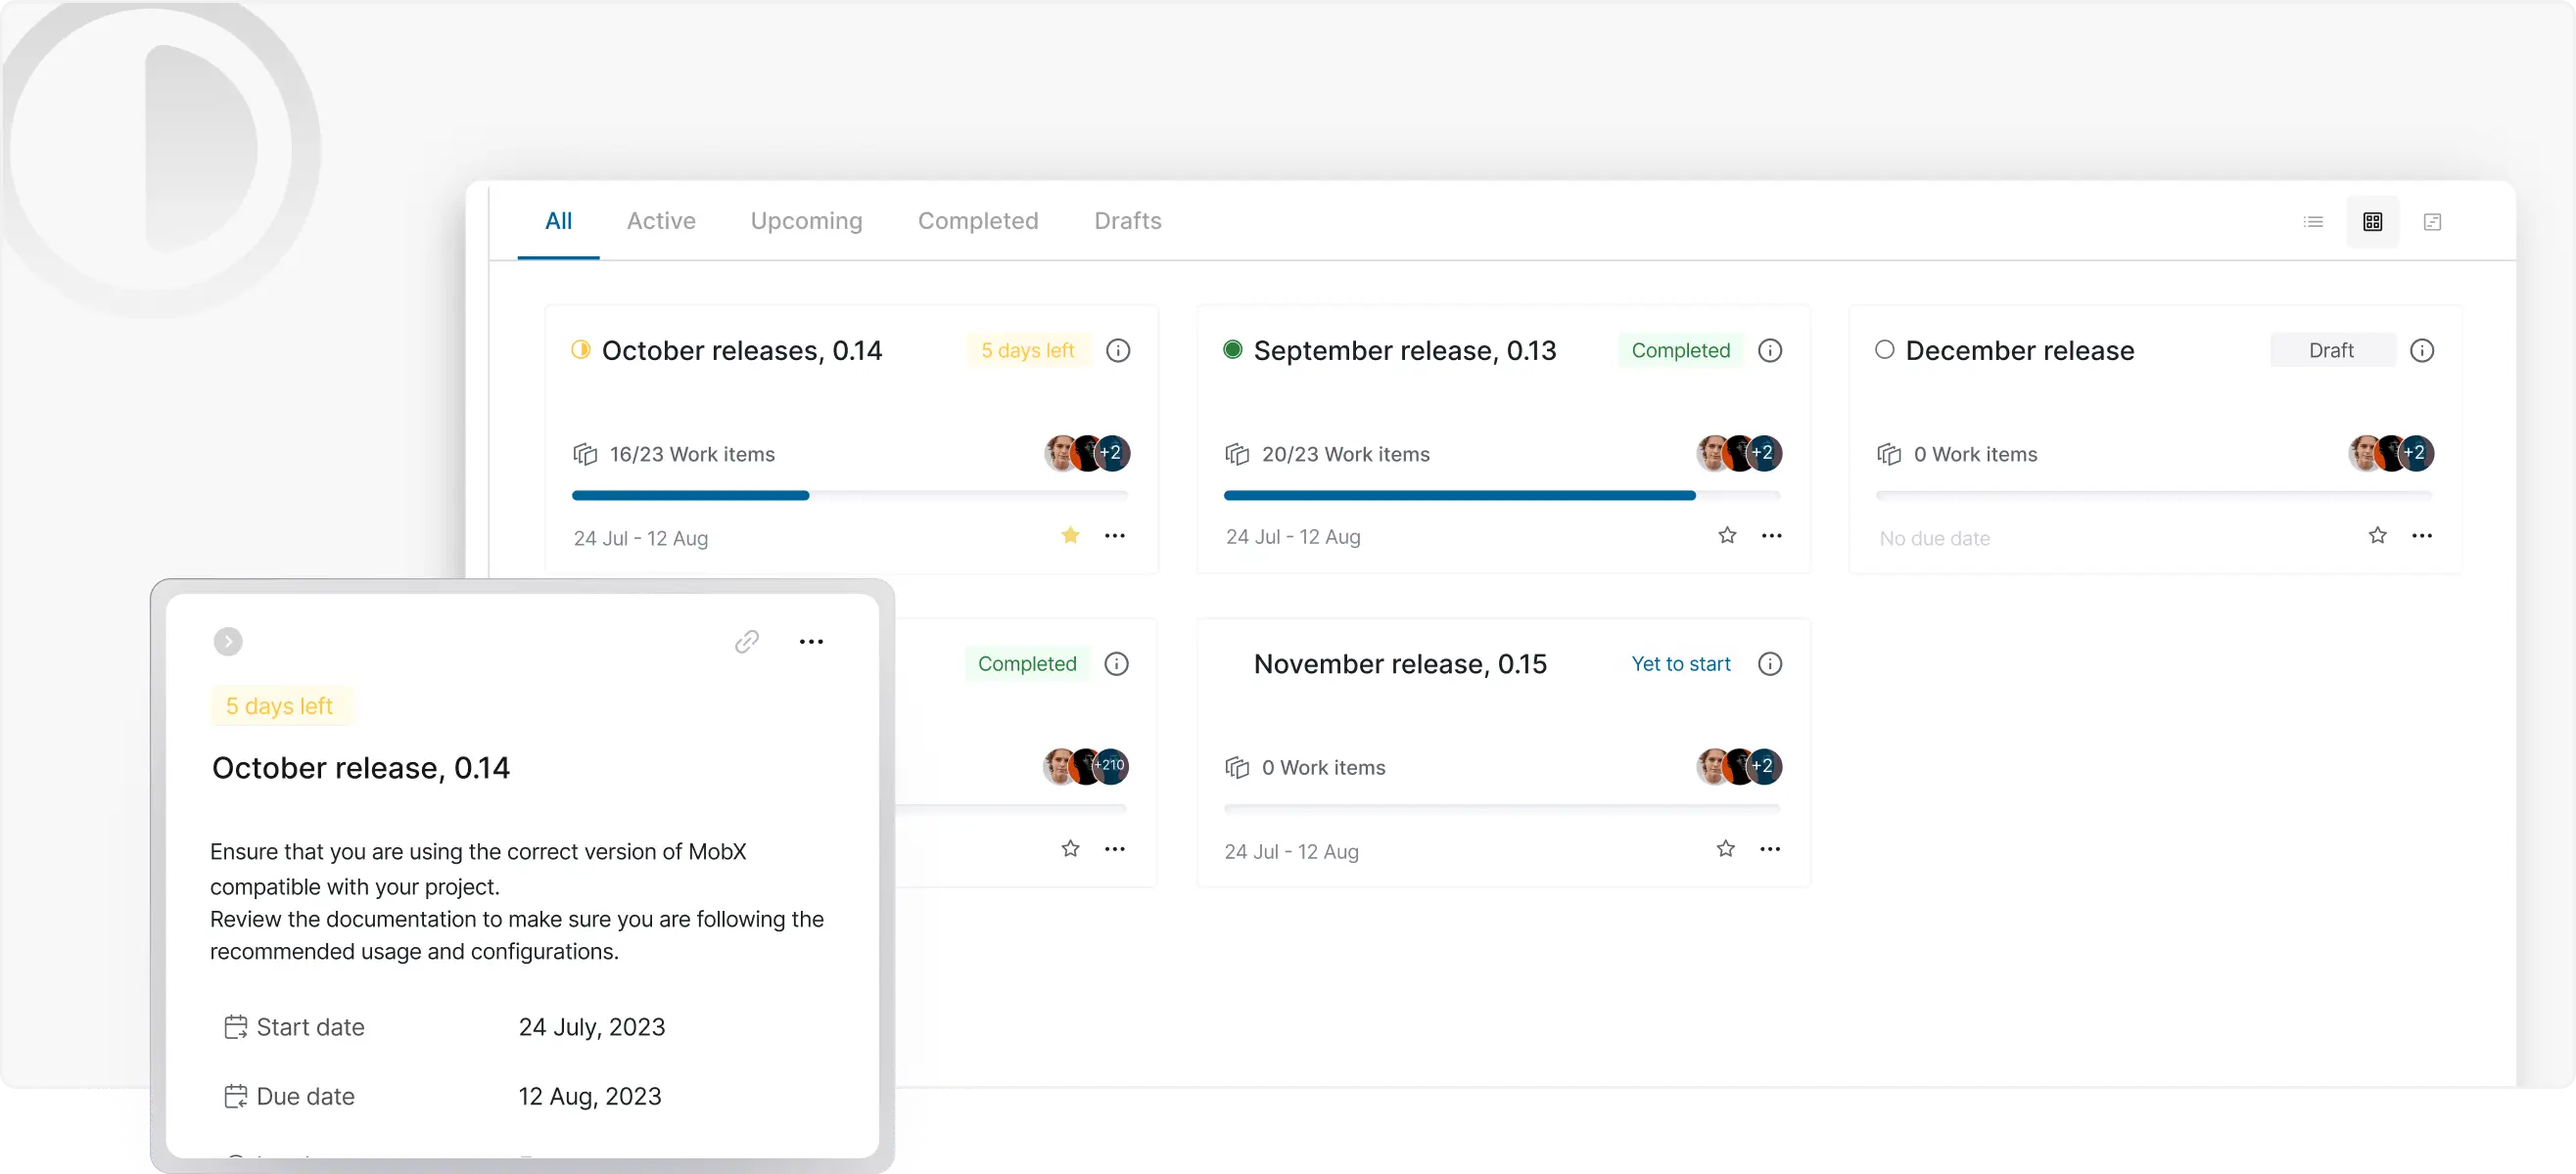
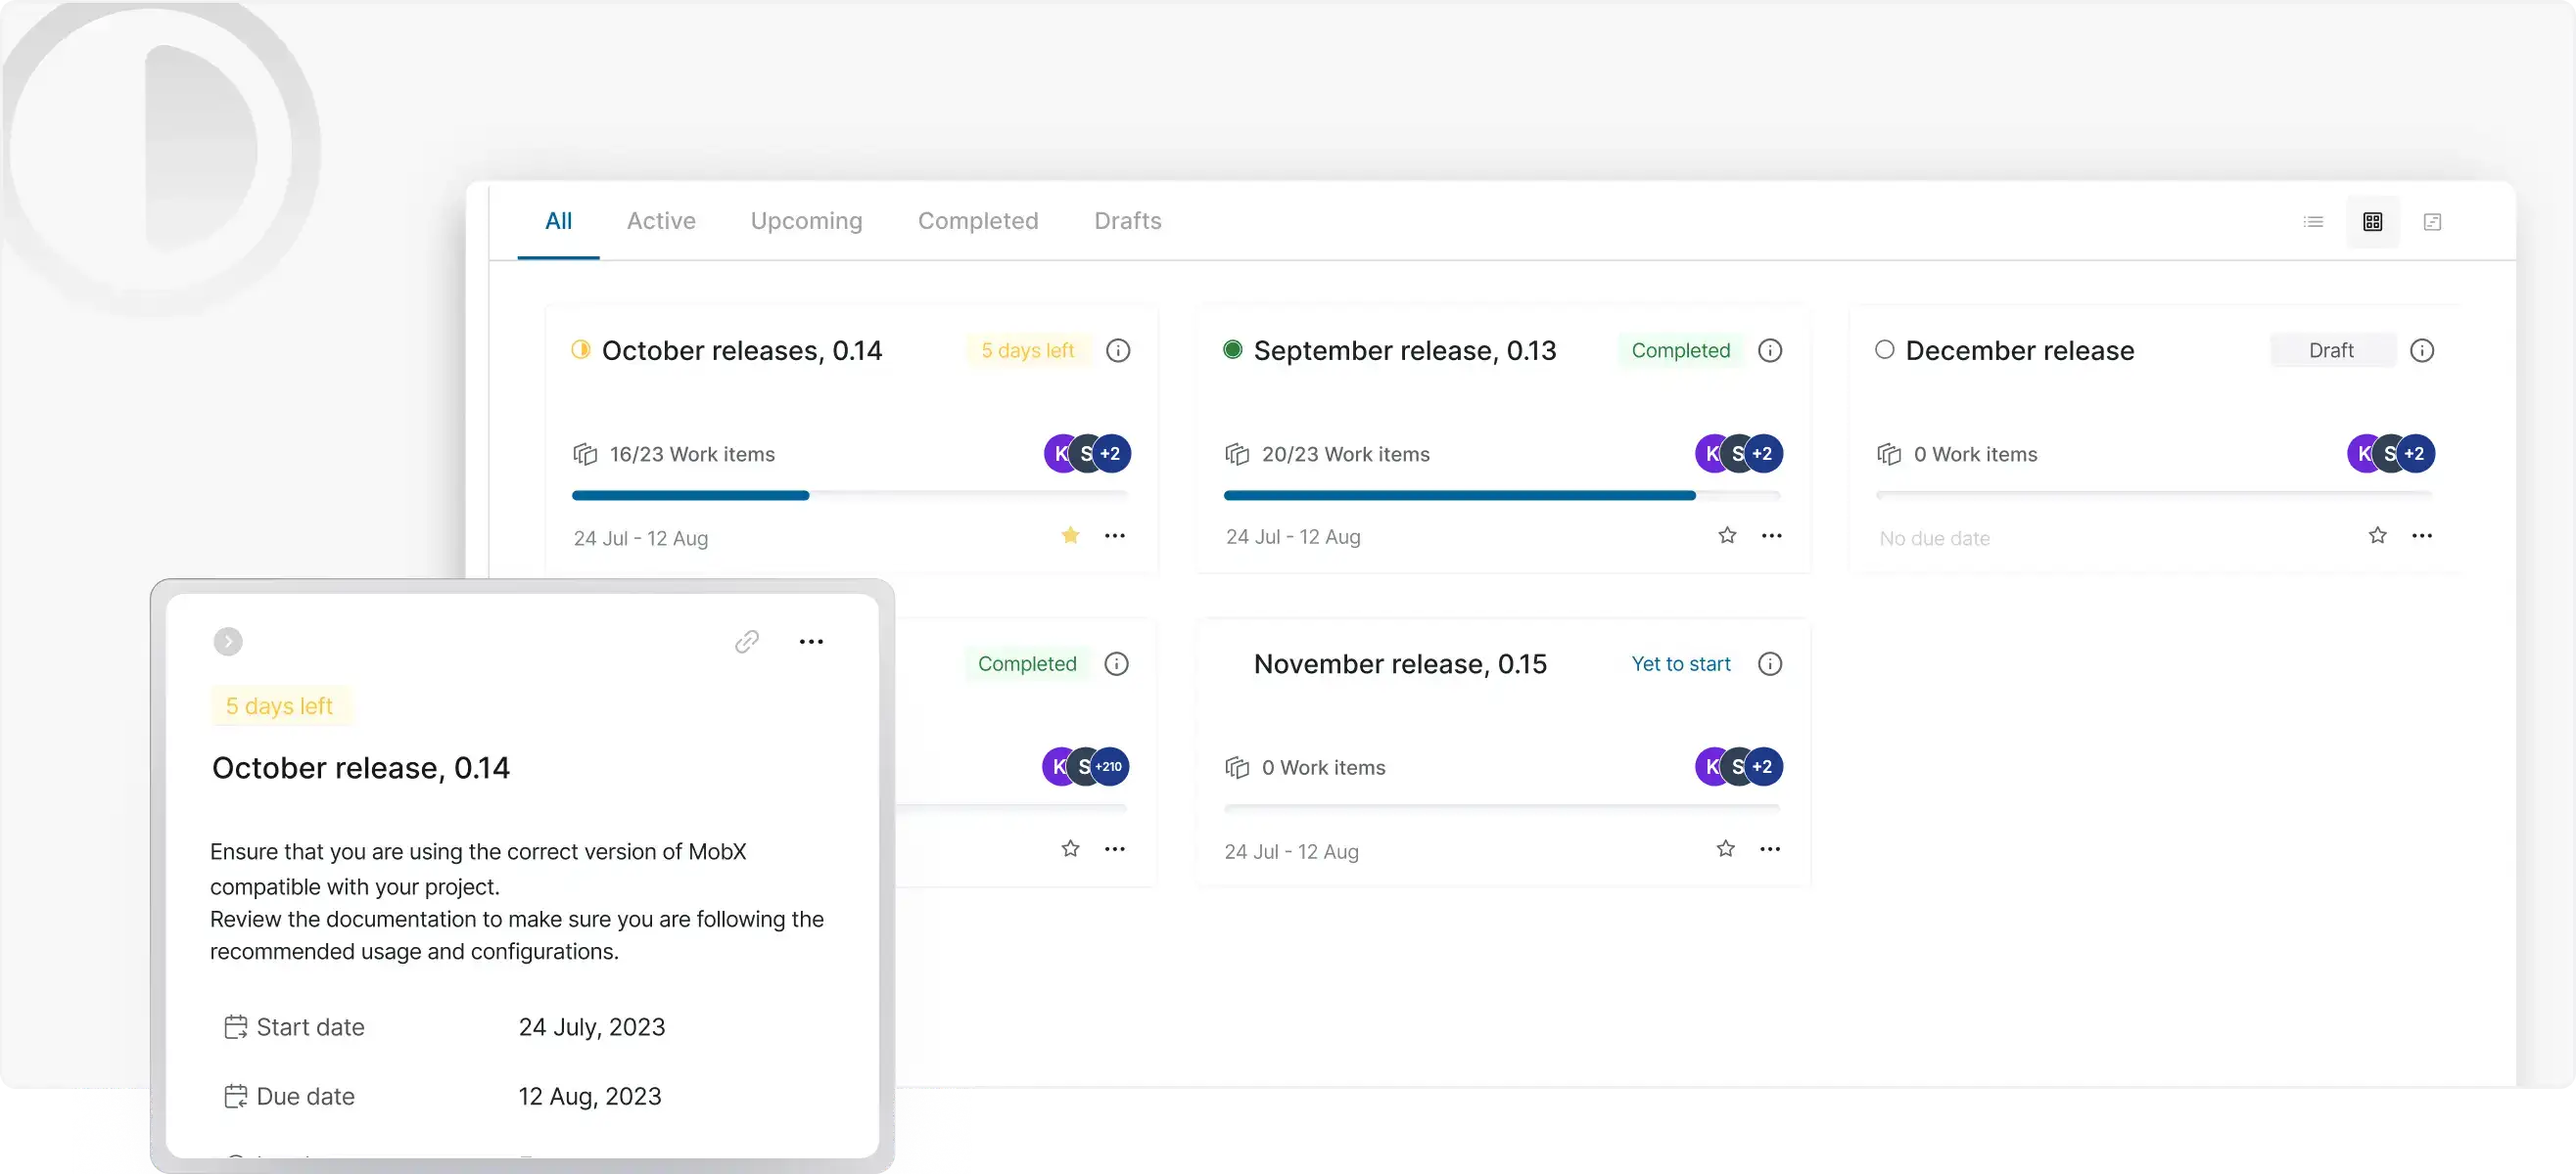
chore(web): the kept pictures show no real person; the pictures nothing shows go
Three of the product tour's screenshots and the eight "feature disabled"
pictures showed people's photographs as avatars (some of them cartoon
characters, some count badges laid over a photo) and three real names. Every
such avatar (77 in 11 pictures) is a letter avatar now, and the names are
neutral ones ("vera"; "Robin", "Robin Park"), set in Inter at the old words'
size, weight and colour. Nothing else in the pictures changed. SOURCES.md in
onboarding/ and empty-state/disabled-feature/ keeps the upstream notice and
says what changed in each file.

Eight pictures nothing shows are deleted: six that no source names by path
(they share their file names with used pictures, or end another's name, so a
check by file name took them for used), and the two active-cycle pictures,
which the active-cycle root chose by theme and passed to a prop its inner
component ignored. That prop and the theme hook go with them.

The front-end change list gets the task's row, and M5's closeout handoff the
two items handed to it, each with its close condition: the third-party logos
in four attachment icons, and the cover value of a new project, which is
created with the preset's build path (the copy is uploaded first, and its
address only replaces the path in a later request). The handoff's title
names the two items, as the other closeout handoffs' titles name theirs.

diff --git a/web/apps/web/core/components/cycles/active-cycle/root.tsx b/web/apps/web/core/components/cycles/active-cycle/root.tsx
@@ -5,16 +5,12 @@
  */
 
 import { observer } from "mobx-react";
-import { useTheme } from "next-themes";
 import { Disclosure } from "@headlessui/react";
 import { EmptyStateDetailed } from "@nerve/propel/empty-state";
 // nerve imports
 import { useTranslation } from "@nerve/i18n";
 import type { ICycle } from "@nerve/types";
 import { Row } from "@nerve/ui";
-// assets
-import darkActiveCycleAsset from "@/app/assets/empty-state/cycle/active-dark.webp?url";
-import lightActiveCycleAsset from "@/app/assets/empty-state/cycle/active-light.webp?url";
 // components
 import { ActiveCycleStats } from "@/components/cycles/active-cycle/cycle-stats";
 import { ActiveCycleProductivity } from "@/components/cycles/active-cycle/productivity";
@@ -36,7 +32,6 @@ interface IActiveCycleDetails {
 type ActiveCyclesComponentProps = {
   cycleId: string | null | undefined;
   activeCycle: ICycle | null;
-  activeCycleResolvedPath: string;
   workspaceSlug: string;
   projectId: string;
   handleFiltersUpdate: (filters: any) => void;
@@ -46,7 +41,6 @@ type ActiveCyclesComponentProps = {
 const ActiveCyclesComponent = observer(function ActiveCyclesComponent({
   cycleId,
   activeCycle,
-  activeCycleResolvedPath: _activeCycleResolvedPath,
   workspaceSlug,
   projectId,
   handleFiltersUpdate,
@@ -99,15 +93,12 @@ const ActiveCyclesComponent = observer(function ActiveCyclesComponent({
 
 export const ActiveCycleRoot = observer(function ActiveCycleRoot(props: IActiveCycleDetails) {
   const { workspaceSlug, projectId, cycleId: propsCycleId, showHeader = true } = props;
-  // theme hook
-  const { resolvedTheme } = useTheme();
   // nerve hooks
   const { t } = useTranslation();
   // store hooks
   const { currentProjectActiveCycleId } = useCycle();
   // derived values
   const cycleId = propsCycleId ?? currentProjectActiveCycleId;
-  const activeCycleResolvedPath = resolvedTheme === "light" ? lightActiveCycleAsset : darkActiveCycleAsset;
   // fetch cycle details
   const {
     handleFiltersUpdate,
@@ -128,7 +119,6 @@ export const ActiveCycleRoot = observer(function ActiveCycleRoot(props: IActiveC
                 <ActiveCyclesComponent
                   cycleId={cycleId}
                   activeCycle={activeCycle}
-                  activeCycleResolvedPath={activeCycleResolvedPath}
                   workspaceSlug={workspaceSlug}
                   projectId={projectId}
                   handleFiltersUpdate={handleFiltersUpdate}
@@ -142,7 +132,6 @@ export const ActiveCycleRoot = observer(function ActiveCycleRoot(props: IActiveC
         <ActiveCyclesComponent
           cycleId={cycleId}
           activeCycle={activeCycle}
-          activeCycleResolvedPath={activeCycleResolvedPath}
           workspaceSlug={workspaceSlug}
           projectId={projectId}
           handleFiltersUpdate={handleFiltersUpdate}

diff --git a/web/apps/web/app/assets/empty-state/disabled-feature/SOURCES.md b/web/apps/web/app/assets/empty-state/disabled-feature/SOURCES.md
@@ -1,0 +1,27 @@
+# Sources of the "feature disabled" pictures
+
+Copyright (c) 2026-present OpenNerve
+SPDX-License-Identifier: AGPL-3.0-only
+
+The eight pictures are screenshots of the app's interface that came with the code, under its notice:
+
+Copyright (c) 2023-present Plane Software, Inc. and contributors
+SPDX-License-Identifier: AGPL-3.0-only
+
+Every avatar that showed a photograph (of a person, of a cartoon character, or a count badge laid over a photo) is a
+letter avatar now: a flat disc in one of six colours with a white initial (or the count) in Inter, the app's font,
+painted over the old disc and clipped so that the discs drawn over it keep their pixels. Real people's names are
+neutral ones, written in the old words' place in Inter at the size, weight, colour and baseline fitted to the old
+words. Nothing else changed, apart from one more lossy WebP encode, at the quality whose file size is closest to
+the original's. How each picture was measured and changed: `docs/v0/M1-frontend-trim/plans/closeout.md`, Task 15.
+
+| File                 | Changed                                                                                                                  |
+| -------------------- | ------------------------------------------------------------------------------------------------------------------------ |
+| `cycles-light.webp`  | 15 avatars (five cards, three each, the count badges included)                                                           |
+| `cycles-dark.webp`   | 15 avatars, as in the light picture                                                                                      |
+| `intake-light.webp`  | 3 avatars (the work item's assignees)                                                                                    |
+| `intake-dark.webp`   | 3 avatars, as in the light picture                                                                                       |
+| `modules-light.webp` | 9 avatars (three cards); the workspace in the breadcrumb was renamed "Acme Design" before (M1/P5)                        |
+| `modules-dark.webp`  | 9 avatars, as in the light picture; "Acme Design" as in the light picture                                                |
+| `views-light.webp`   | The assignee's avatar; the view owner's and the assignee's names are now "Robin" and "Robin Park"; "Acme Design" (M1/P5) |
+| `views-dark.webp`    | As in the light picture                                                                                                  |

diff --git a/docs/v0/frontend-changes.md b/docs/v0/frontend-changes.md
@@ -121,6 +121,7 @@
 | en、zh-CN 的文案 | 删掉没有代码引用的 500 个键（严格方法下的 482 个，加上 18 个只因名字与无关的字面量相同而算作有引用的键），以及它们留下的 149 个空对象；每种语言 1577 → 1077 个键；主题选项的标签只剩一个来源（`i18n_label` 是键），Power K 的主题菜单在中文界面下不再显示英文 | M1 设计 6、9 节 |
 | `app/assets/` | 删掉 133 张没有被导入的图片（6.1 MiB）：126 张空状态插图（画的是 Plane 的界面）、认证页的三张、项目 emoji、命令键图形和两张图库人像 | M1 设计 9 节；P5 评审 |
 | `app/assets/cover-images/`、`helpers/cover-image.helper.ts` | 29 张预设封面从来源和许可查不到的照片换成 Nerve 自己画的抽象图（色块、波纹、圆盘、条带、切面、点阵、等高线，中到深色，画面中部有细节：封面会被裁成宽条，上面写白字）。SVG 是源文件，带 Nerve 的版权声明；应用导入由它渲染的 WebP（1920 × 1080，质量 0.9），因为项目或个人资料选用预设封面时应用会上传一份副本，上传只接受 JPEG、PNG、WebP。同目录的 `SOURCES.md` 写明做法和每张画的是什么。旧的 29 张 JPEG 删除，封面辅助函数导入新文件，上传的兜底文件名随格式改为 `image.webp` | 收尾 spec 第 9 节第 1 条的裁定：来源和许可查不到的图片不随 Nerve 发布，功能保留 |
+| `app/assets/onboarding/`、`app/assets/empty-state/`；`cycles/active-cycle/root.tsx` |导览的三张截图和"功能未开启"的八张图里，显示照片的头像（人像、卡通人物和盖在照片上的计数徽章，11 张图共 77 个）改为字母头像，真实的人名改为中性的名字（"vera"；"Robin"、"Robin Park"），字体、字号、字重、颜色和基线与原文相同，其余像素不变；同目录的 `SOURCES.md` 保留上游的版权声明，写明每张改了什么。删掉不显示的 8 张图：按路径没有被引用的 6 张（与在用的图同名，或是另一张图文件名的结尾，按文件名查找时被当作在用）；活动迭代的两张，根组件按主题选出它们，传给内层组件一个不读的属性，这个属性和只为它存在的主题 hook 一起删除 | 收尾 spec 第 9 节第 1 条的裁定：保留的图片不含第三方的肖像和个人信息；保留的其余图片按能看清 20 px 细节的尺寸复看过（收尾 plan 的 Task 15） |
 
 ---
 

diff --git a/web/apps/web/app/assets/onboarding/SOURCES.md b/web/apps/web/app/assets/onboarding/SOURCES.md
@@ -1,0 +1,23 @@
+# Sources of the product tour's pictures
+
+Copyright (c) 2026-present OpenNerve
+SPDX-License-Identifier: AGPL-3.0-only
+
+The four pictures are screenshots of the app's interface that came with the code, under its notice:
+
+Copyright (c) 2023-present Plane Software, Inc. and contributors
+SPDX-License-Identifier: AGPL-3.0-only
+
+Every avatar that showed a photograph (of a person, of a cartoon character, or a count badge laid over a photo) is a
+letter avatar now: a flat disc in one of six colours with a white initial (or the count) in Inter, the app's font,
+painted over the old disc and clipped so that the discs drawn over it keep their pixels. Real people's names are
+neutral ones, written in the old words' place in Inter at the size, weight, colour and baseline fitted to the old
+words. Nothing else changed, apart from one more lossy WebP encode, at the quality whose file size is closest to
+the original's. How each picture was measured and changed: `docs/v0/M1-frontend-trim/plans/closeout.md`, Task 15.
+
+| File           | Changed                                                                                       |
+| -------------- | --------------------------------------------------------------------------------------------- |
+| `cycles.webp`  | 11 avatars; the cycle lead's name is now "vera"                                               |
+| `issues.webp`  | 5 avatars                                                                                     |
+| `views.webp`   | 5 avatars (a 5-px sliver of a dark avatar under the edge of the views panel is left as it is) |
+| `modules.webp` | Nothing: it shows no avatar and no name                                                       |
